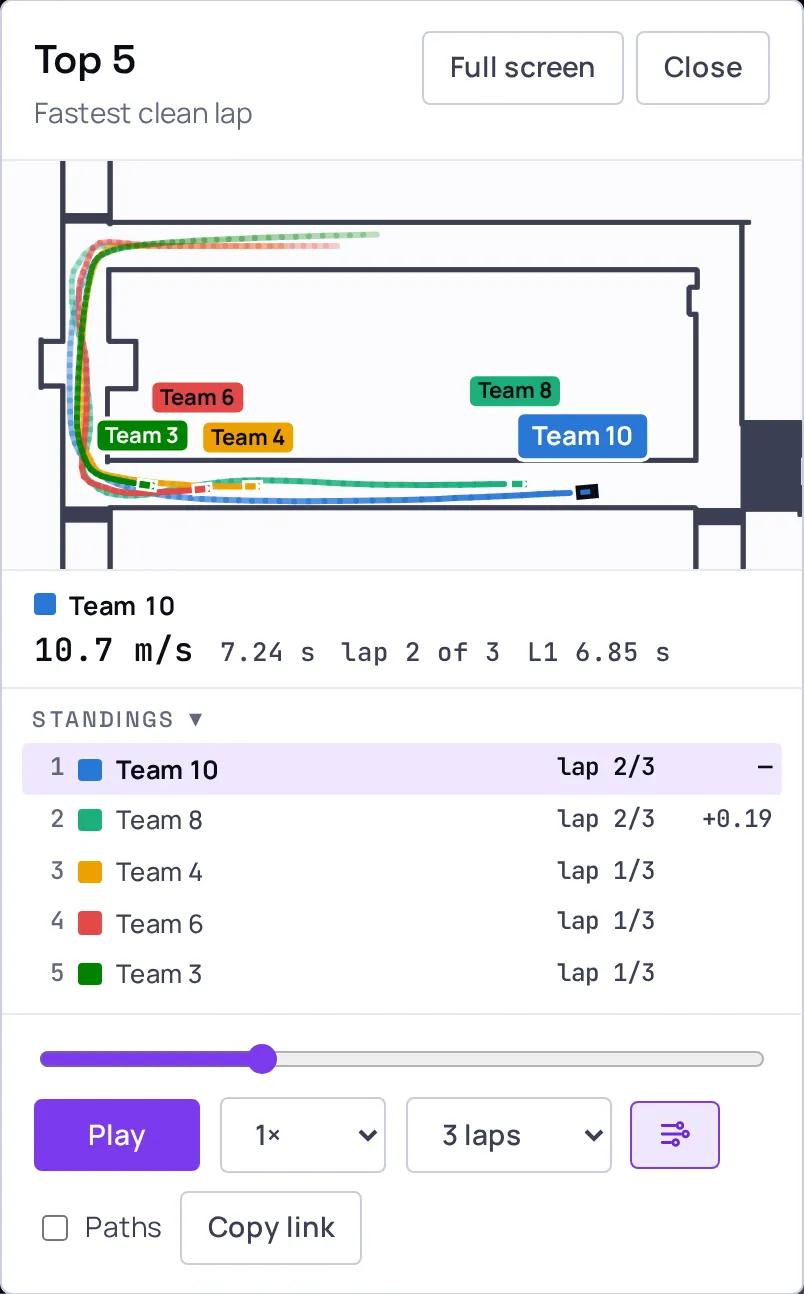
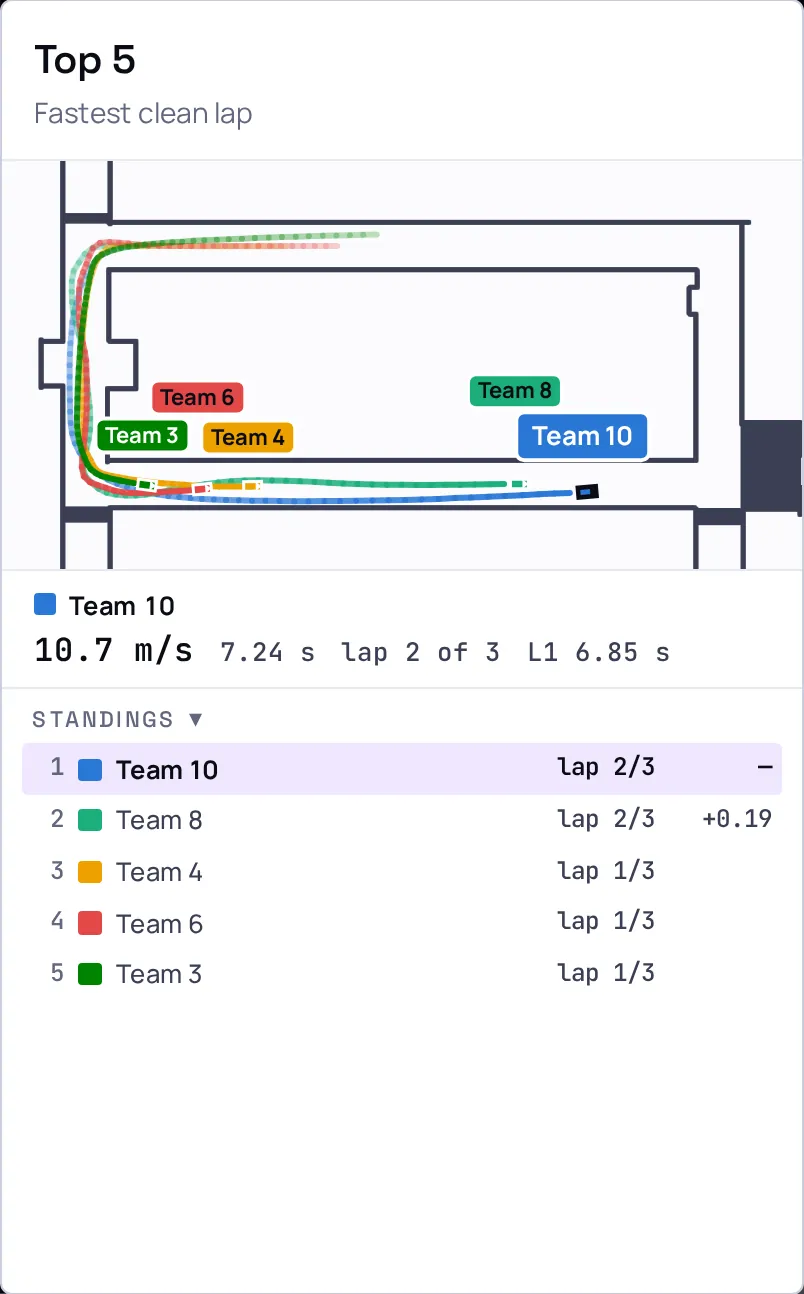
race replay: posters re-captured without the player's buttons
Full screen, Close and the play bar were drawn into the poster and did
nothing there. The re-capture hides them in the board's page first, at the
same frame and crop, so the poster keeps its 1960x1350 and 804x1294 size and
the box does not change when the player loads (41 KB and 30 KB).

diff --git a/src/components/race/LeaderboardReplay.tsx b/src/components/race/LeaderboardReplay.tsx
@@ -63,7 +63,10 @@ const REVEAL_AFTER_MS = 900;
  *
  * It is heavy (a canvas redrawn every frame, five recordings) and animated,
  * so it loads only on a click: until then a poster captured from it holds
- * the exact box the player will fill, so nothing moves when it arrives. Under
+ * the exact box the player will fill, so nothing moves when it arrives. The
+ * poster leaves the player's buttons out (Full screen, Close, the play bar:
+ * hidden in the board's page before the capture, manifest RACE-LB-01/02), so
+ * nothing drawn on it looks clickable but the play disc. Under
  * reduced motion the board's player opens paused by itself. The link under it
  * opens the same view on the board's site, in every state.
  */

diff --git a/docs/ASSET_MANIFEST.md b/docs/ASSET_MANIFEST.md
@@ -473,8 +473,8 @@ Screenshots of the ESE 6150 class leaderboard's own replay player (`https://robo
 
 | id | file | type | dims | size | content | source | credit | permission | used by |
 |---|---|---|---|---|---|---|---|---|---|
-| RACE-LB-01 | `public/media/race/race-leaderboard-replay-wide.webp` | webp | 1960x1350 | 49 KB | the board's player, "Top 5 / Fastest clean lap": Levine hallway track, five labelled cars (Teams 10, 8, 4, 6, 3, the top 5 as of 2026-09-26 02:30Z) with their paths, readout, standings, controls | frame window 1040x720, dialog crop 980x675 at (30, 22.5), 2x | ESE 6150 leaderboard (RoboRacer-Class) | the course's own board; Cedric, 2026-09-25 | poster of the replay on /race#leaderboard, columns 640 px and wider |
-| RACE-LB-02 | `public/media/race/race-leaderboard-replay-narrow.webp` | webp | 804x1294 | 36 KB | the same moment in the player's phone layout (track above the readout strip, standings in one column, controls in three rows) | frame window 440x720, dialog crop 402x647 at (19, 36.4), 2x | ESE 6150 leaderboard (RoboRacer-Class) | the course's own board; Cedric, 2026-09-25 | poster of the replay on /race#leaderboard, narrower columns (phones, lg below ~1155 px) |
+| RACE-LB-01 | `public/media/race/race-leaderboard-replay-wide.webp` | webp | 1960x1350 | 41 KB | the board's player, "Top 5 / Fastest clean lap": Levine hallway track, five labelled cars (Teams 10, 8, 4, 6, 3, the top 5 as of 2026-09-26 03:53Z) with their paths, readout and standings; the player's controls are not drawn (re-captured 2026-09-26: the poster showed Full screen, Close, Play, Compare and Copy link, which did nothing on the poster) | frame window 1040x720, dialog crop 980x675 at (30, 22.5), 2x; slider at 30% of its range; `.rr-full, .rr-close, .rr-bar { visibility: hidden }` injected into the board's page before the capture, so the box and the track sit exactly where the loaded player draws them; WebP q80 | ESE 6150 leaderboard (RoboRacer-Class) | the course's own board; Cedric, 2026-09-25 | poster of the replay on /race#leaderboard, columns 640 px and wider |
+| RACE-LB-02 | `public/media/race/race-leaderboard-replay-narrow.webp` | webp | 804x1294 | 30 KB | the same moment in the player's phone layout (track above the readout strip, standings in one column); the three control rows are left blank as on RACE-LB-01 | frame window 440x720, dialog crop 402x647 at (19, 36.4), 2x; the same injected CSS; WebP q80 | ESE 6150 leaderboard (RoboRacer-Class) | the course's own board; Cedric, 2026-09-25 | poster of the replay on /race#leaderboard, narrower columns (phones, lg below ~1155 px) |
 
 ## Start here thumbnails (p3-start-here, 2026-09-25)
 

diff --git a/docs/LEADERBOARD.md b/docs/LEADERBOARD.md
@@ -223,7 +223,8 @@ have it stay on follow the gap:
   replayed.", the player, then "Open the replay ↗" (new tab, same URL) and,
   once loaded, "Restart the replay".
 - **Click to load.** Until a click (or Enter/Space) only a poster ships: a
-  capture of the player itself, paused mid-race (Team 10 on lap 2, Team 8
+  capture of the player itself, its buttons hidden before the capture (so
+  the poster draws no control that does nothing), paused mid-race (Team 10 on lap 2, Team 8
   0.19 s behind, the other three out of the first corner), in the exact box the player will fill, with
   a play disc over the track. Nothing loads from the board's site for the
   replay before that, for anyone, and never by itself under reduced motion
